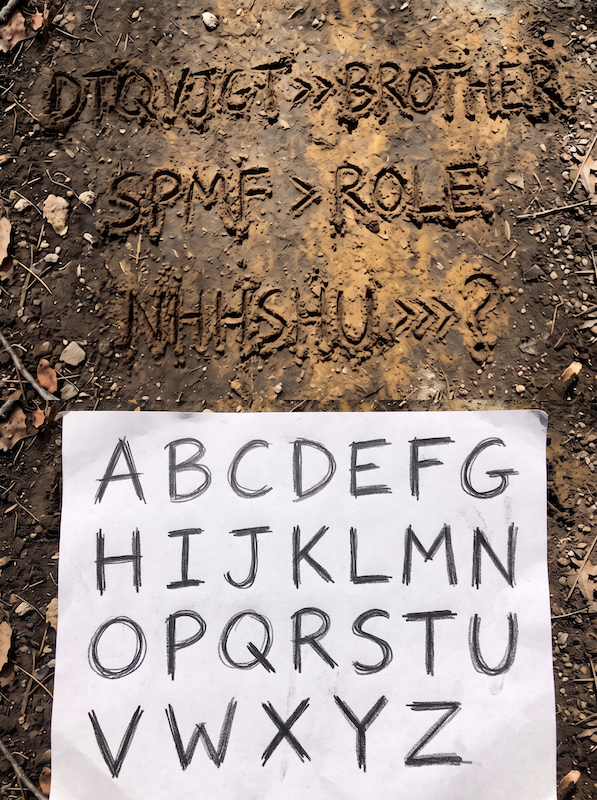
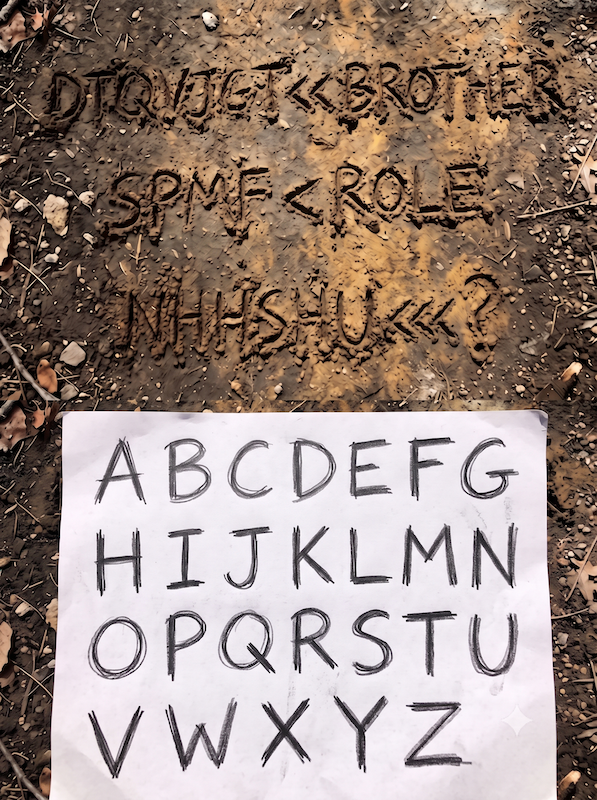
fix: resolve room reversion bug on submit, apply updated hints from hints.txt, simplify zoom button, and update q6 image

diff --git a/src/data/puzzles.ts b/src/data/puzzles.ts
@@ -19,8 +19,8 @@ export const PUZZLES: Puzzle[] = [
     formatGuide: "영어 대문자 6자리",
     answer: "LETSGO",
     hints: [
-      "선이 그려지지 않은 빈 공간의 경로를 따라 선을 연결하면 숨겨진 문자가 나타난다.",
-      "첫 번째 문자는 L, 두 번째 문자는 E이다. 같은 방식으로 남은 빈 공간을 연결하여 6글자의 영어 단어를 완성한다.",
+      "지워진 부분을 그리면 모든 모양은 동일.",
+      "첫 번째는 'L', 두 번째는 'E'.",
       "🔑 정답 공개: LETSGO"
     ]
   },
@@ -33,8 +33,8 @@ export const PUZZLES: Puzzle[] = [
     formatGuide: "숫자 4자리",
     answer: "0402",
     hints: [
-      "편지 내용 중 한국어 발음이 숫자(0~9)와 일치하는 글자를 순서대로 추출한다.",
-      "'공(0)'정성, '사(4)'건과 같이 숫자로 읽히는 글자를 차례대로 찾아 4자리 숫자를 조합한다.",
+      "편지 내용에 한글 발음으로 된 숫자.",
+      "'공(0)'정성, '사(4)'건.",
       "🔑 정답 공개: 0402"
     ]
   },
@@ -47,8 +47,8 @@ export const PUZZLES: Puzzle[] = [
     formatGuide: "영어 대문자 6자리",
     answer: "CEREAL",
     hints: [
-      "나열된 숫자는 알파벳의 순서 번호(A=1, B=2, C=3 ...)를 의미한다.",
-      "26을 초과하는 숫자는 Z(26) 다음으로 다시 A(27), B(28) 순환하여 변환한다.",
+      "알파벳의 순서.",
+      "26을 넘기면 처음부터.",
       "🔑 정답 공개: CEREAL"
     ]
   },
@@ -61,8 +61,8 @@ export const PUZZLES: Puzzle[] = [
     formatGuide: "영어 대문자 4자리",
     answer: "LAND",
     hints: [
-      "외침 속에 표시된 기호는 피그펜 암호(Pigpen cipher) 형태의 도형 기호이다.",
-      "격자 테두리의 선 형태와 점의 위치를 대조하여 각 기호에 해당하는 알파벳을 해독한다.",
+      "말풍선 안의 기호마다 한 알파벳.",
+      "들판의 알파벳들이 들어있는 테두리.",
       "🔑 정답 공개: LAND"
     ]
   },
@@ -75,8 +75,8 @@ export const PUZZLES: Puzzle[] = [
     formatGuide: "영어 대문자 4자리",
     answer: "ENVY",
     hints: [
-      "각 칸에 분산된 동일한 색상의 선들을 한 곳에 겹쳐 배치하면 하나의 알파벳이 완성된다.",
-      "완성된 알파벳을 파랑 → 주황 → 초록 → 보라 순서대로 조합하여 단어를 만든다.",
+      "같은 색끼리.",
+      "파랑은 'E', 주황은 'N'.",
       "🔑 정답 공개: ENVY"
     ]
   },
@@ -89,8 +89,8 @@ export const PUZZLES: Puzzle[] = [
     formatGuide: "영어 대문자 6자리",
     answer: "KEEPER",
     hints: [
-      "화살표(>)의 개수는 알파벳을 역방향(앞 순서)으로 이동할 칸 수를 의미한다.",
-      "D에서 2칸 앞은 B, S에서 1칸 앞은 R이 된다. 제시된 NHHSHU를 각각 3칸씩 역방향으로 치환한다.",
+      "화살표 갯수만큼 각 알파벳을 이동.",
+      "정답의 첫번째 문자는 'K', 두번째는 'E'.",
       "🔑 정답 공개: KEEPER"
     ]
   },
@@ -103,8 +103,8 @@ export const PUZZLES: Puzzle[] = [
     formatGuide: "숫자 6자리",
     answer: "201657",
     hints: [
-      "동일한 색상의 화살표들을 크기 순서대로 연결하여 궤적을 확인한다.",
-      "각 색상별로 가장 큰 화살표부터 작은 화살표 순서로 선을 연결하면 6자리의 숫자가 형성된다.",
+      "화살표의 크기가 큰 순서대로.",
+      "각 색상마다 허공에 순서대로 그리면, 빨강은 '2'.",
       "🔑 정답 공개: 201657"
     ]
   },
@@ -117,8 +117,8 @@ export const PUZZLES: Puzzle[] = [
     formatGuide: "영어 대문자 4자리",
     answer: "MARK",
     hints: [
-      "각 동물의 영문 명칭(알파벳 스펠링)을 먼저 도출한다.",
-      "색칠된 동물의 개수를 파악하고, 영문 명칭에서 해당 번째의 알파벳을 추출하여 조합한다.",
+      "Monkey, Cat, Tiger, Shark.",
+      "색칠된 동물의 수 = 영어 단어의 알파벳 순서.",
       "🔑 정답 공개: MARK"
     ]
   },
@@ -131,8 +131,8 @@ export const PUZZLES: Puzzle[] = [
     formatGuide: "숫자 4자리",
     answer: "1224",
     hints: [
-      "빨간색 시작점에서 출발하여 초록색 도착점까지 이어지는 유효 경로를 탐색한다.",
-      "선은 대각선 방향으로만 진행하며, 파란 점이 위치한 칸을 경유하여 4자리 숫자를 완성한다.",
+      "대각선들을 자세히.",
+      "중요한건 빨간색.",
       "🔑 정답 공개: 1224"
     ]
   },
@@ -145,8 +145,8 @@ export const PUZZLES: Puzzle[] = [
     formatGuide: "영어 대문자 5자리",
     answer: "JESUS",
     hints: [
-      "숫자 1은 통과할 수 없는 벽이며, 숫자 0으로 이어진 통로를 따라 경로를 연결한다.",
-      "외곽 벽면과 구분선을 제외하고 0이 형성하는 글자의 형태를 분석하여 알파벳 5자리를 도출한다.",
+      "숫자 0만 보자.",
+      "좌, 우, 위, 아래 숫자 0끼리 모두 연결하면 첫 번째 문자는 'J', 두 번째는 'E'.",
       "🔑 정답 공개: JESUS"
     ]
   }

diff --git a/src/app/play/page.tsx b/src/app/play/page.tsx
@@ -83,6 +83,7 @@ export default function PlayPage() {
   const startedAtRef = useRef<number | null>(null);
   const roomEnteredAtRef = useRef<number>(Date.now());
   const lastHintAtRef = useRef<number | null>(null);
+  const currentRoomRef = useRef<number>(1);
 
   // Cooldown countdown timer (all hints: 30s)
   useEffect(() => {
@@ -105,7 +106,10 @@ export default function PlayPage() {
   // Load session from server
   const loadGameState = useCallback(async (activePin: string) => {
     try {
-      const res = await fetch(`/api/game/state?pin=${activePin}`);
+      const res = await fetch(
+        `/api/game/state?pin=${encodeURIComponent(activePin)}&_t=${Date.now()}`,
+        { cache: "no-store" }
+      );
       const data = await res.json();
 
       if (!res.ok) {
@@ -123,8 +127,21 @@ export default function PlayPage() {
       }
 
       const s = data.session;
+      // Stale response guard: If client already reached a higher room, never revert it
+      if (
+        currentRoomRef.current > 1 &&
+        s.currentRoom < currentRoomRef.current &&
+        s.status !== "ready"
+      ) {
+        console.warn(
+          `Ignoring stale room state (${s.currentRoom} < ${currentRoomRef.current})`
+        );
+        return;
+      }
+
       setNickname(s.nickname || "탐정 조수");
       setCurrentRoom(s.currentRoom);
+      currentRoomRef.current = s.currentRoom;
       setPuzzle(data.puzzle);
       setUnlockedHints(data.unlockedHints || []);
       setTotalPuzzles(data.totalPuzzles || 10);
@@ -172,7 +189,9 @@ export default function PlayPage() {
 
       setPin(parsed.pin);
       setNickname(parsed.nickname || `탐정_${parsed.pin}`);
-      setCurrentRoom(parsed.currentRoom || 1);
+      const initialRoom = parsed.currentRoom || 1;
+      setCurrentRoom(initialRoom);
+      currentRoomRef.current = initialRoom;
       if (typeof parsed.totalHintsUsed === "number") {
         setTotalHintsUsed(parsed.totalHintsUsed);
       }
@@ -195,7 +214,7 @@ export default function PlayPage() {
         headers: { "Content-Type": "application/json" },
         body: JSON.stringify({
           pin,
-          currentRoom,
+          currentRoom: currentRoomRef.current,
           startedAt: startedAtRef.current,
           roomEnteredAt: roomEnteredAtRef.current,
           totalHintsUsed,
@@ -204,7 +223,7 @@ export default function PlayPage() {
     }, 15000);
 
     return () => clearInterval(interval);
-  }, [pin, currentRoom, totalHintsUsed]);
+  }, [pin, totalHintsUsed]);
 
   // Stable callback for typing completion
   const handleTypingComplete = useCallback(() => {
@@ -353,7 +372,7 @@ export default function PlayPage() {
           setAnswerFeedbackOverlay(null);
           setIsRoomTransitioning(true); // 완전한 페이드아웃 (화면 가림)
 
-          setTimeout(async () => {
+          setTimeout(() => {
             // 화면이 완전히 가려진 상태에서 새 방 데이터로 원자적(동시) 교체!
             const now = Date.now();
             roomEnteredAtRef.current = now;
@@ -368,11 +387,19 @@ export default function PlayPage() {
             if (data.nextPuzzle) {
               setPuzzle(data.nextPuzzle);
             }
-            setCurrentRoom(data.nextRoom);
+            const nextRoomNum = data.nextRoom || currentRoomRef.current + 1;
+            setCurrentRoom(nextRoomNum);
+            currentRoomRef.current = nextRoomNum;
             setIsTypingFinished(false);
 
-            // 2. 서버 상태 동기화 완료 대기
-            await loadGameState(pin);
+            // 2. 최신 세션을 LocalStorage에 즉시 확정 저장 (새로고침/재접속 대비)
+            if (data.session) {
+              try {
+                localStorage.setItem("escape_session", JSON.stringify(data.session));
+              } catch (e) {
+                console.warn("Storage save failed:", e);
+              }
+            }
 
             // 3. 새 방의 데이터가 완벽하게 준비된 후 부드럽게 페이드인
             setTimeout(() => {
@@ -470,11 +497,13 @@ export default function PlayPage() {
                 />
 
                 <button
+                  type="button"
                   onClick={() => setIsLightboxOpen(true)}
-                  className="absolute bottom-3 right-3 p-2 rounded-xl bg-black/75 text-amber-300 hover:text-white backdrop-blur-md border border-amber-600/40 flex items-center gap-1.5 text-xs font-bold shadow-lg"
+                  aria-label="단서 확대"
+                  title="단서 확대"
+                  className="absolute bottom-2.5 right-2.5 p-2 rounded-xl bg-black/80 hover:bg-black text-amber-400 hover:text-white backdrop-blur-md border border-amber-600/50 flex items-center justify-center shadow-lg transition active:scale-95"
                 >
                   <ZoomIn className="w-4 h-4" />
-                  <span>단서 확대</span>
                 </button>
               </div>
 

diff --git a/src/app/api/game/state/route.ts b/src/app/api/game/state/route.ts
@@ -2,6 +2,9 @@ import { NextRequest, NextResponse } from "next/server";
 import { getSessionAsync } from "@/lib/store";
 import { PUZZLES } from "@/data/puzzles";
 
+export const dynamic = "force-dynamic";
+export const revalidate = 0;
+
 export async function GET(req: NextRequest) {
   const pin = req.nextUrl.searchParams.get("pin");
   if (!pin) {
@@ -13,12 +16,21 @@ export async function GET(req: NextRequest) {
     return NextResponse.json({ error: "Session not found" }, { status: 404 });
   }
 
+  const noCacheHeaders = {
+    "Cache-Control": "no-store, no-cache, must-revalidate, proxy-revalidate, max-age=0",
+    "Pragma": "no-cache",
+    "Expires": "0",
+  };
+
   if (session.isCleared) {
-    return NextResponse.json({
-      session,
-      isCleared: true,
-      totalPuzzles: PUZZLES.length,
-    });
+    return NextResponse.json(
+      {
+        session,
+        isCleared: true,
+        totalPuzzles: PUZZLES.length,
+      },
+      { headers: noCacheHeaders }
+    );
   }
 
   const puzzle = PUZZLES.find((p) => p.roomNumber === session.currentRoom);
@@ -40,20 +52,23 @@ export async function GET(req: NextRequest) {
     text: puzzle.hints[idx],
   }));
 
-  return NextResponse.json({
-    session,
-    puzzle: {
-      roomNumber: puzzle.roomNumber,
-      title: puzzle.title,
-      image: puzzle.image,
-      dialogue: puzzle.dialogue,
-      question: puzzle.question,
-      formatGuide: puzzle.formatGuide,
-      totalHints: puzzle.hints.length,
+  return NextResponse.json(
+    {
+      session,
+      puzzle: {
+        roomNumber: puzzle.roomNumber,
+        title: puzzle.title,
+        image: puzzle.image,
+        dialogue: puzzle.dialogue,
+        question: puzzle.question,
+        formatGuide: puzzle.formatGuide,
+        totalHints: puzzle.hints.length,
+      },
+      unlockedHints: unlockedHintsList,
+      hintCooldownRemaining: remainingCooldown,
+      canUnlockHint: remainingCooldown === 0 && session.unlockedHints.length < puzzle.hints.length,
+      totalPuzzles: PUZZLES.length,
     },
-    unlockedHints: unlockedHintsList,
-    hintCooldownRemaining: remainingCooldown,
-    canUnlockHint: remainingCooldown === 0 && session.unlockedHints.length < puzzle.hints.length,
-    totalPuzzles: PUZZLES.length,
-  });
+    { headers: noCacheHeaders }
+  );
 }

diff --git a/src/lib/store.ts b/src/lib/store.ts
@@ -866,7 +866,11 @@ export async function startOrResumeSessionAsync(
         .single();
 
       if (!error && data) {
-        return dbSessionToPlayerSession(data, existing.review);
+        const updatedSession = dbSessionToPlayerSession(data, existing.review);
+        const store = getStore();
+        store.sessions[cleanPin] = updatedSession;
+        savePersistedSessions(store.sessions);
+        return updatedSession;
       }
     }
   }
@@ -963,7 +967,11 @@ export async function syncClientSessionAsync(
           .single();
 
         if (!error && data) {
-          return dbSessionToPlayerSession(data, existing.review);
+          const updatedSession = dbSessionToPlayerSession(data, existing.review);
+          const store = getStore();
+          store.sessions[cleanPin] = updatedSession;
+          savePersistedSessions(store.sessions);
+          return updatedSession;
         }
       }
     }
@@ -1105,6 +1113,9 @@ export async function submitAnswerAsync(
 
       if (!error && data) {
         const updatedSession = dbSessionToPlayerSession(data, session.review);
+        const store = getStore();
+        store.sessions[cleanPin] = updatedSession;
+        savePersistedSessions(store.sessions);
         return {
           success: true,
           nextRoom: updatedSession.isCleared ? 10 : updatedSession.currentRoom,
